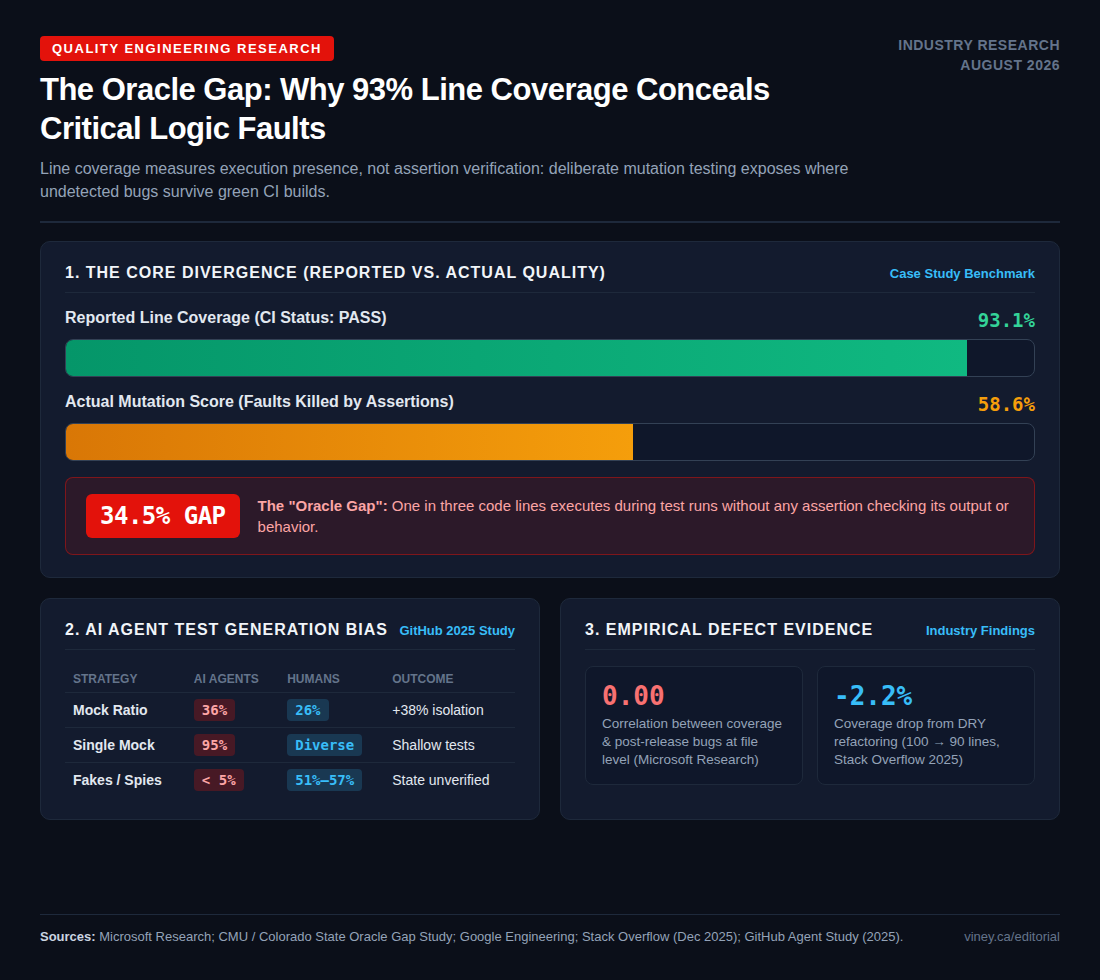
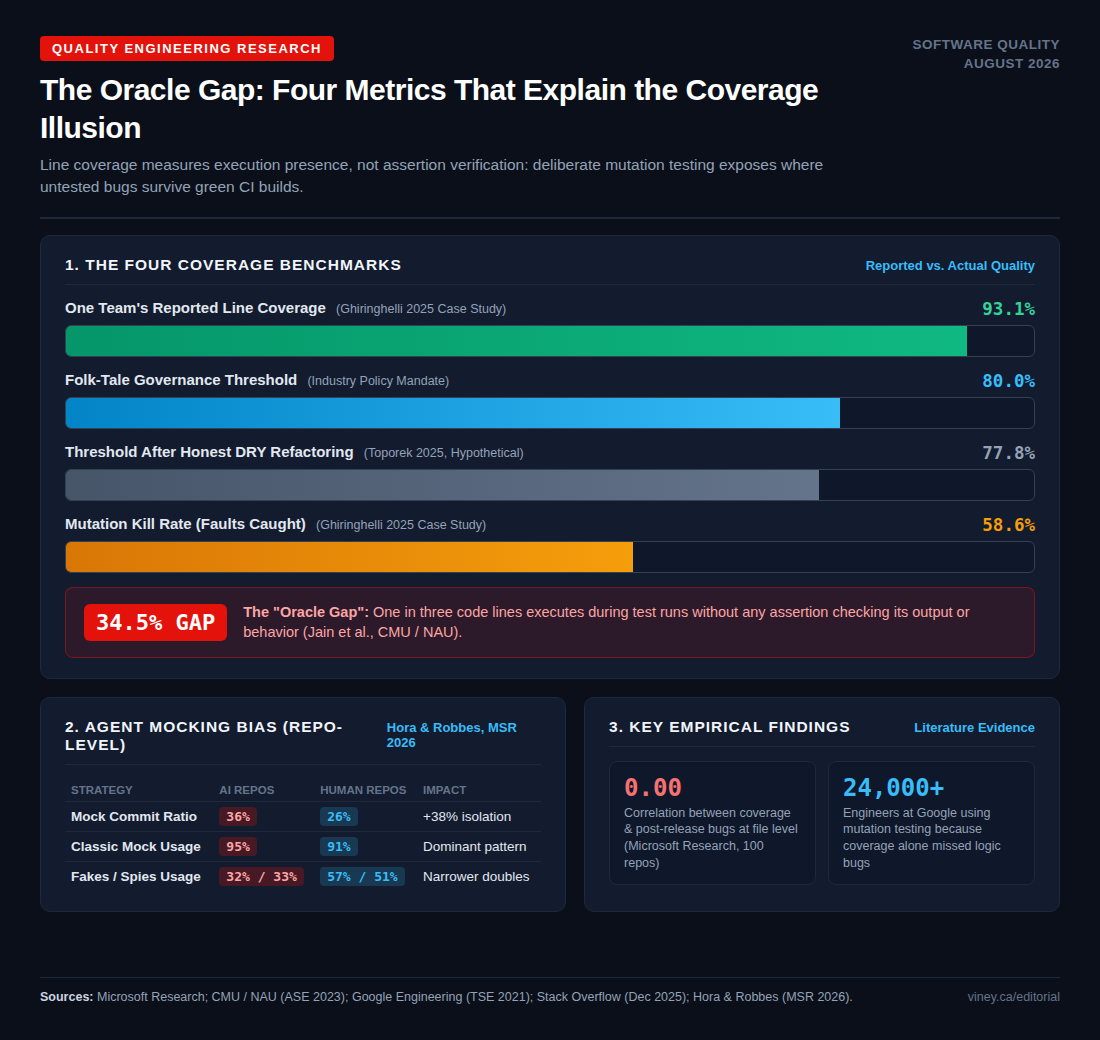
review: unlisted draft code-coverage-mutation-score-quality-eb6d1448.md

diff --git a/_review/code-coverage-mutation-score-quality-eb6d1448.md b/_review/code-coverage-mutation-score-quality-eb6d1448.md
@@ -1,0 +1,52 @@
+---
+layout: review
+title: "Coverage is the BMI of Software Quality: A Comfortable Lie Your Board Believes"
+date: 2026-08-16
+author: "Ouray Viney"
+categories: ["Quality Engineering", "Test Automation"]
+description: "Line coverage tells your board 93.1% is green. Mutation testing reveals a 34-point gap where logic errors survive every test run. Your CI is lying by omission."
+subtitle: "What 93% coverage conceals: the mutation gap where logic errors breed behind an unbroken wall of green"
+slug: "code-coverage-mutation-score-quality"
+tags: [quality-engineering, test-automation]
+image_caption: "Green coverage dashboards reward visiting code rather than catching defects, leaving logic errors undetected behind a wall of passing assertions."
+image: /assets/images/code-coverage-mutation-score-quality-hero.svg
+image_alt: "A towering green percentage meter glowing on a boardroom wall while beneath the floorboards a deep chasm reveals broken components and undetected faults."
+---
+
+Software engineers learned long ago that you cannot improve what you cannot measure. Boards took that lesson and ran with it, straight into the wrong metric. Code coverage (the percentage of source lines executed during a test run) now adorns dashboards from Silicon Valley to Singapore as the primary signal of software health. Mandate 80%, watch the number climb, congratulate the team, and file the slide. The ritual is reassuring, repeatable, and wrong. Code coverage is the BMI of software quality (a comparison Jared Toporek drew on the Stack Overflow blog, and it deserves to stick): a single number that feels scientific, correlates poorly with what actually matters, and is optimised above all else for its own improvement. Achieving a high score demands nothing so inconvenient as tests that catch bugs, merely tests that visit code. The board's comfortable green dashboard may be the most expensive misunderstanding in modern engineering, and the industry has spent two decades building governance architecture on top of it.
+
+## A Correlation That Does Not Exist
+
+The foundational claim behind every coverage mandate is that higher coverage means fewer bugs in production. Microsoft Research tested this assumption across 100 open-source Java projects and found that code coverage has an insignificant correlation with post-release defect counts at the project level and no correlation whatsoever at the individual file level. The study does not hedge. It directly contradicts the premise on which engineering departments worldwide have built their quality regimes. What makes this finding particularly uncomfortable is the near-universal enforcement of the 80% threshold as though it carried scientific authority. According to the Stack Overflow engineering blog (December 2025), there is no scientifically tested evidence linking that threshold to software quality; the figure appears to derive from a misapplication of the Pareto principle, dressed up in the language of rigour without any of its substance. The 80% mark is not a finding: it is a folk tale that has survived long enough to acquire the trappings of orthodoxy. Worse, the metric punishes good engineering. Toporek works a deliberately simple hypothetical: a 100-line file at exactly 80% coverage contains a ten-line block duplicated elsewhere. Consolidate the duplicate, as the DRY principle demands, and the file falls to 90 lines with 70 covered: 77.8%, below the gate. The numbers are illustrative, but the mechanism is not; he reports hitting it on a real bug fix, and the arithmetic holds for any refactoring that deletes covered lines faster than uncovered ones. Engineers who improve the codebase watch the score decline and must either reverse the improvement or pad the suite.
+
+## The Thirty-Four-Point Oracle Gap
+
+If coverage tells you little, mutation testing tells you considerably more. The practice, introducing small, deliberate faults into source code and counting how many tests fail, exposes something coverage cannot: whether assertions actually validate behaviour, or merely observe that code ran without crashing. A practitioner study by J. Ghiringhelli, documented on Dev.to, found that a codebase reporting 93.1% line coverage yielded only a 58.62% mutation score. That 34-point gap represents the fraction of the codebase where a bug could be quietly introduced, all tests would continue to pass, and the CI pipeline would remain resolutely green. Three separate rounds of targeted assertion improvements were required to close it. The headline number had been accurate; it had simply been measuring the wrong thing: thoroughness of visitation, not rigour of judgement. Researchers at Carnegie Mellon and Northern Arizona University formalise this as the "oracle gap" (the difference between source-code coverage and mutation score), arguing it "surfaces important information about the extent and quality of a test effort beyond either adequacy metric alone," particularly exposing files where weak assertions mask untested behaviour. A test that visits a function without asserting on its output is, in any meaningful sense, not a test. Coverage counts it; mutation testing does not. Google's mutation-testing system, run by more than 24,000 developers across more than 1,000 projects in ten languages, shows the gap at industrial scale in the simplest way possible: mutants are generated only on lines that tests already cover, and some still survive. Every surviving mutant is a bug the green dashboard has already blessed.
+
+## The Perverse Machine
+
+The problem is accelerating, and artificial intelligence is doing the accelerating. A study of 1.2 million 2025 GitHub commits (Hora and Robbes, MSR 2026) found that agents generate test commits with a 36% mock-commit ratio, compared with 26% for human developers. More revealing still is the narrowness: in 95% of repositories with agent mock activity, agents reached for the classic mock type, with spies (33%) and fakes (32%) far behind, whereas human-authored mock commits spread across mock (91%), fake (57%), and spy (51%). The effect within a given repository is statistically significant but small, which is exactly what you would expect this early. The study measures prevalence, not consequence; the inference is mine: tests built from a single isolation pattern are the cheapest kind to generate and the kind most likely to assert that code ran rather than that it worked. If that inference is right, coverage dashboards will inflate at machine speed. If agent-written suites turn out to kill mutants at human rates, this paragraph is wrong, and the data to check is already public.
+
+The deeper problem is not the metric itself but the governance architecture built around it. When coverage becomes a deployment gate, a performance-review line item, or a board-level KPI, it stops being a signal and becomes a target. Goodhart's Law, the observation by economist Charles Goodhart that any measure which becomes a target ceases to be a good measure, operates without mercy on software quality. Coverage was never a particularly good measure to begin with. Promoted to a target, it is actively harmful.
+
+The honest counter-case deserves the floor. The same Google group found coverage genuinely useful as developer feedback (Code Coverage at Google, ESEC/FSE 2019), and its mutation service pointedly computes no mutation score at all: coverage decides which lines get mutated, and the authors call mutation adequacy neither practical nor desirable. Mutation score is itself an imperfect proxy with a contested link to real faults. The defensible claim is therefore narrower than "coverage lies": coverage is a fine floor and a poor ceiling, and it is the gap between coverage and kill rate, not either number alone, that carries signal. What would prove this post wrong: codebases where high line coverage coincides with high mutation kill rates at scale, or evidence that closing the oracle gap fails to reduce escaped defects.
+
+The chart below puts the four numbers side by side: one team's reported coverage, the folk-tale threshold, the same threshold after an honest refactoring, and what the tests actually caught.
+
+[![The Code Coverage Mirage](/assets/charts/code-coverage-mutation-score-quality.png)](/assets/charts/code-coverage-mutation-score-quality.png)
+
+The Monday version of this is checkable. Pick the most critical service in your fleet. Run a mutation testing tool (such as PIT for Java, Stryker for JavaScript/TypeScript/C#, or mutmut for Python) against its core domain logic. Measure two numbers: the reported line coverage versus the mutation kill rate. If the gap exceeds twenty percentage points, your test suite is asserting on presence, not behaviour, and your green build is an illusion you can measure before production surfaces it for you.
+
+## References
+
+1. Microsoft Research. "Code Coverage and Post-Release Defects: A Large-Scale Study on Open Source Projects." <https://www.microsoft.com/en-us/research/publication/code-coverage-and-post-release-defects-a-large-scale-study-on-open-source-projects/>
+
+2. Ghiringhelli, J. "The AI Reported 93.1% Coverage. It Was 34% Off." *Dev.to*, 2025. <https://dev.to/jghiringhelli/the-ai-reported-931-coverage-it-was-34-290k>
+
+3. Jain, K., Kalburgi, G. T., Le Goues, C., and Groce, A. "Mind the Gap: The Difference Between Coverage and Mutation Score Can Guide Testing Efforts." *ASE*, 2023. <https://arxiv.org/abs/2309.02395>
+
+4. Petrović, G., Ivanković, M., Fraser, G., and Just, R. "Practical Mutation Testing at Scale: A View from Google." *IEEE Transactions on Software Engineering*, 2021. <https://dl.acm.org/doi/10.1109/TSE.2021.3107634>
+
+5. Toporek, J. "Making Your Code Base Better Will Make Your Code Coverage Worse." *Stack Overflow Engineering Blog*, December 2025. <https://stackoverflow.blog/2025/12/22/making-your-code-base-better-will-make-your-code-coverage-worse/>
+
+6. Hora, A. and Robbes, R. "Are Coding Agents Generating Over-Mocked Tests? An Empirical Study." *MSR*, 2026 (analysing 2025 commits). <https://arxiv.org/abs/2602.00409>
